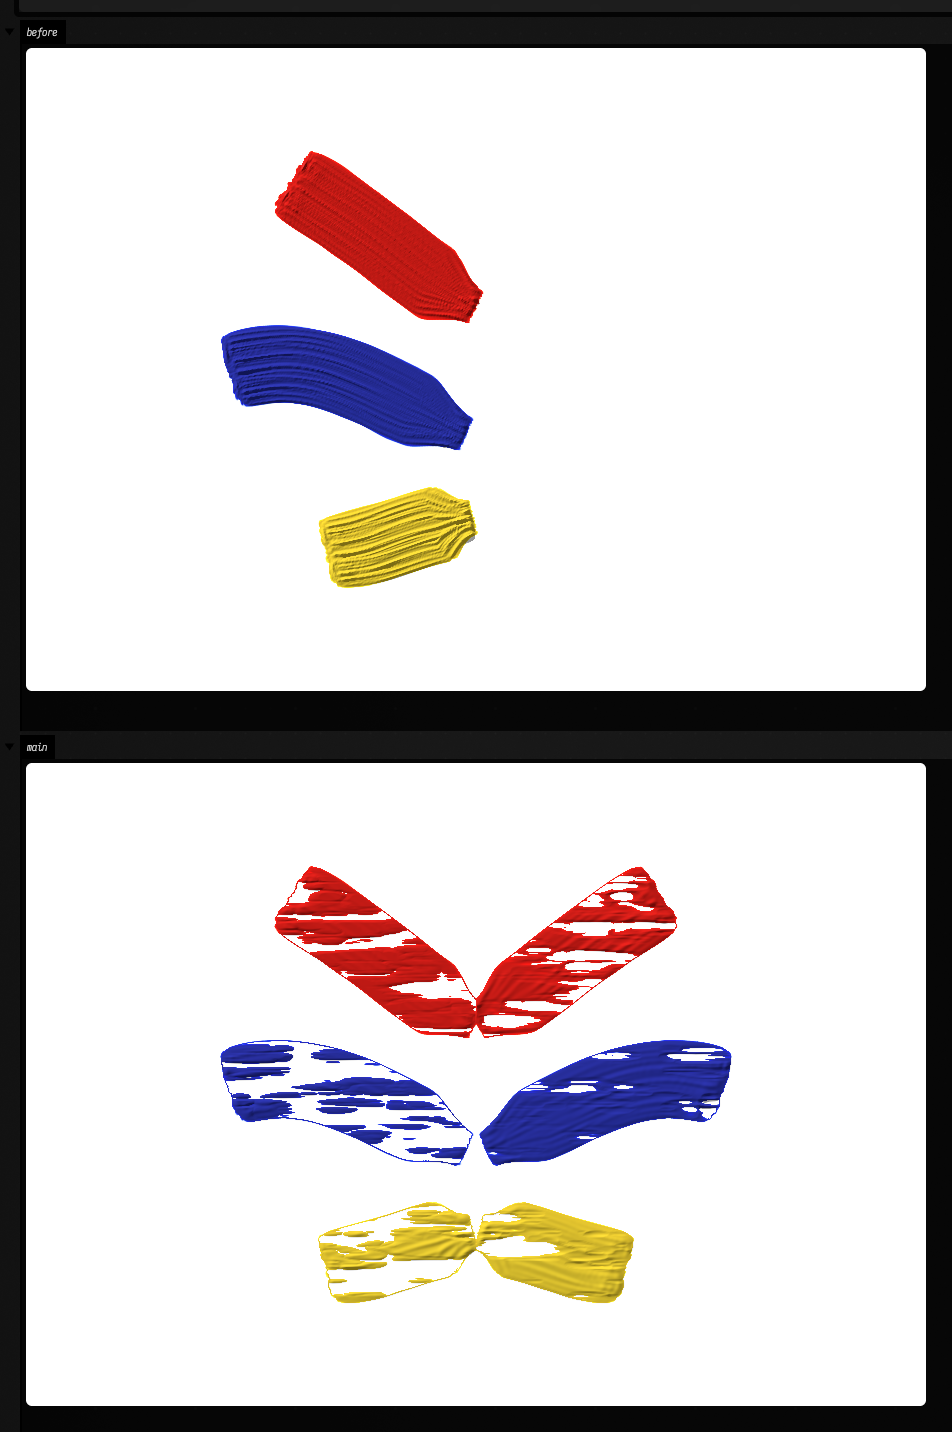
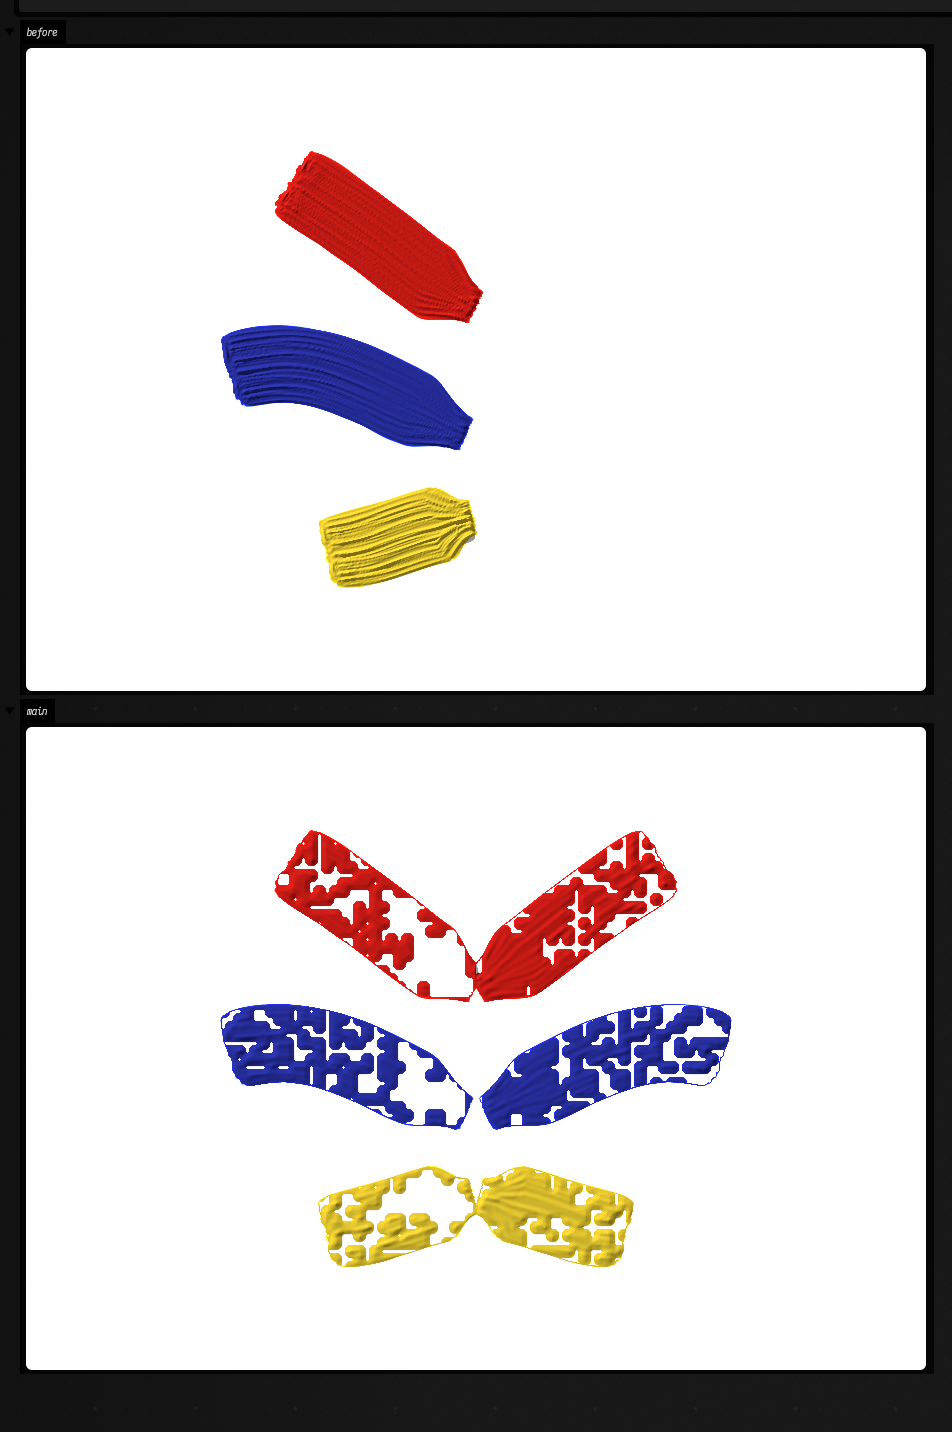
Paint: tune blow/fingers, runner captures for blow, contrast, fold and press

Changed region(s): [[0.2132, 0.5838, 0.792, 0.9218], [0.0305, 0.4916, 0.9748, 0.5531], [0.0305, 0.9525, 0.9748, 0.9832]]

diff --git a/public/docs/paint_canvas.md b/public/docs/paint_canvas.md
@@ -414,9 +414,9 @@ does not move.
 
 The box below lays three thick strokes on the left half, folds the canvas down the middle and opens
 it. The top image is the canvas before the fold, the bottom one after: each stroke is printed onto
-the right half, and the two prints carry opposite ridges where the film split.
+the right half, and the two prints carry opposite fingers where the film split.
 
-```diffstatic_runner {data-lang=kotlin screenshot="assets/paint_canvas/fold.png" alt="two canvases, one above the other. The top one has three thick strokes on its left half: red, blue and yellow, with bristle ridges. In the bottom one each stroke has been printed onto the right half as a mirror image, and both halves are broken by streaky bare patches running away from the fold: where one half kept paint, its mirror is bare" wait="20" capture="box" open-outputs="true" padding="20" requires="paint" name="fold" embed=true scale=1}
+```diffstatic_runner {data-lang=kotlin screenshot="assets/paint_canvas/fold.png" alt="two canvases, one above the other. The top one has three thick strokes on its left half: red, blue and yellow, with bristle ridges. In the bottom one each stroke has been printed onto the right half as a mirror image, and both halves are broken by branching bare fingers that come in from the strokes' outer edges toward the fold: where one half kept paint, its mirror is bare" wait="20" capture="box" open-outputs="true" padding="20" requires="paint" name="fold" embed=true scale=1}
 :::static
 val canvas = PaintCanvas(900, aspect = 1.4, seed = 7)
 val brush = canvas.brush(BrushKind.HogFlat, width = 70.0)
@@ -507,7 +507,7 @@ lost: `canvas.wetMm3` is the same before and after. `blow` returns a `Blown` wit
 The box below lays a thick blue film and blows across it along a curve. The top image is before,
 the bottom one after.
 
-```diffstatic_runner {data-lang=kotlin screenshot="assets/paint_canvas/blow.png" alt="two canvases, one above the other. The top one has a broad, thick band of blue paint with bristle ridges. In the bottom one a curved path has been blown across the band: the paint is cleared along it to a thin film, and branching tendrils of bare canvas reach out from the path into the blue, with thick rims of paint along their edges" wait="30" capture="box" open-outputs="true" padding="20" requires="paint" name="blow" embed=true scale=1}
+```diffstatic_runner {data-lang=kotlin screenshot="assets/paint_canvas/blow.png" alt="two canvases, one above the other. The top one has a broad, thick band of blue paint with bristle ridges. In the bottom one a curved path has been blown across the band: the paint is cleared along it to a thin pale film, with ragged tendrils reaching out from the track into the blue and dark rims of pushed-up paint along its edges" wait="30" capture="box" open-outputs="true" padding="20" requires="paint" name="blow" embed=true scale=1}
 :::static
 val canvas = PaintCanvas(900, aspect = 1.4, seed = 11)
 val brush = canvas.brush(BrushKind.HogFlat, width = 120.0)
@@ -523,14 +523,14 @@ display("main", canvas.png(wet = true, light = PaintLight.Raking))
 The same puff of air at one point, into the same film, with three viscosity contrasts: 1.5, 8 and
 200, left to right.
 
-```diffstatic_runner {data-lang=kotlin screenshot="assets/paint_canvas/blow_contrast.png" alt="a canvas with a thick blue band and three blown spots in a row. The left spot is a compact round clearing with a ragged edge; the middle one has a few thick lobes; the right one is a branching tree of thin bare fingers reaching out into the paint" wait="30" capture="box" open-outputs="true" padding="20" requires="paint" name="blow_contrast" embed=true scale=1}
+```diffstatic_runner {data-lang=kotlin screenshot="assets/paint_canvas/blow_contrast.png" alt="a canvas with a thick blue band and three blown spots in a row. The left spot is a small pale clearing with a ragged, compact edge; the middle one sends out a few short lobes; the right one sends long, thin, branching pale fingers far out into the paint" wait="30" capture="box" open-outputs="true" padding="20" requires="paint" name="blow_contrast" embed=true scale=1}
 :::static
 val canvas = PaintCanvas(900, aspect = 2.4, seed = 12)
 val brush = canvas.brush(BrushKind.HogFlat, width = 130.0)
 brush.load(rgb(0.1, 0.18, 0.55), amount = 5.0, stiff = 0.3)
 for (y in [140, 260]) canvas.stroke(FLine().moveTo(60, y).lineTo(940, y), brush, pressure = 1.0..1.0)
 for ((x, contrast) in [170.0 to 1.5, 500.0 to 8.0, 830.0 to 200.0]) {
-    canvas.blow(FLine().moveTo(x, 200).lineTo(x + 2, 200), radius = 12.0, pressure = 1.0, contrast = contrast, tendril = 5.0)
+    canvas.blow(FLine().moveTo(x, 200).lineTo(x + 2, 200), radius = 16.0, pressure = 1.0, contrast = contrast, tendril = 4.0)
 }
 display("main", canvas.png(wet = true, light = PaintLight.Raking))
 ```
